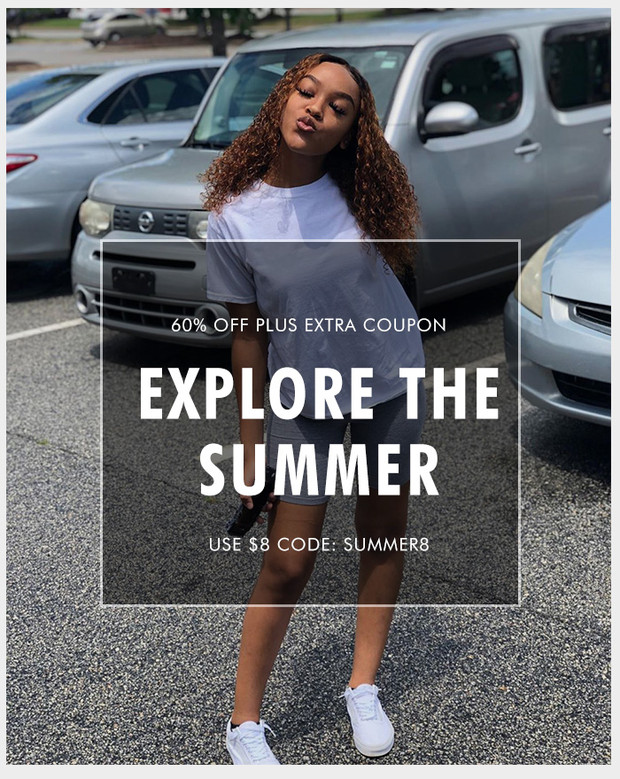
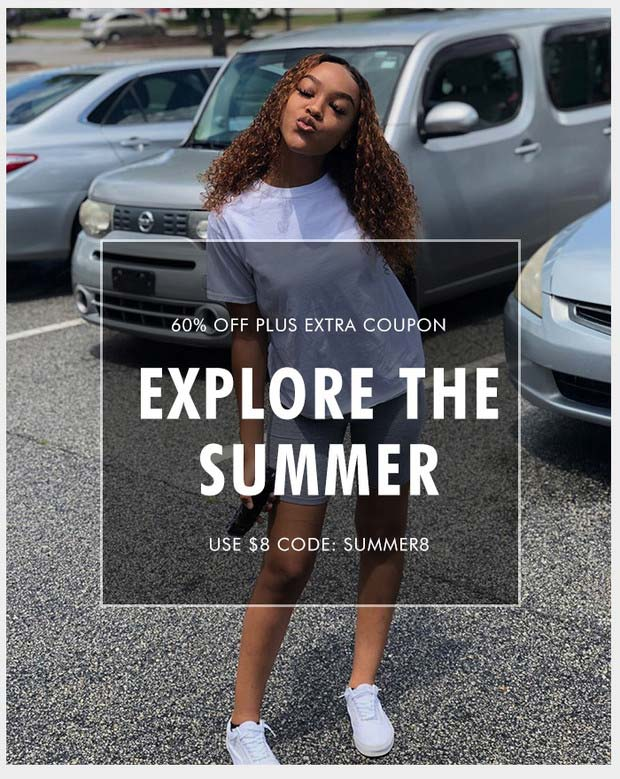
压缩图片 footnav更新删除代码 productController更新查询全部的方法

diff --git a/src/main/java/com/atguigu/controller/MlbackFootNavController.java b/src/main/java/com/atguigu/controller/MlbackFootNavController.java
@@ -235,16 +235,6 @@ public class MlbackFootNavController {
 		return "mfront/footNavPage";
 	}
 	
-//	@RequestMapping(value="/tomProductDetailPage",method=RequestMethod.GET)
-//	public String tomProductDetailPage(HttpServletResponse rep,HttpServletRequest res,@RequestParam(value = "productId") Integer productId) throws Exception{
-//		//接收传递进来的参数
-//		Integer productIdReq = productId;
-//		//放回响应域中
-//		res.setAttribute("productId", productIdReq);
-//		//返回视图
-//		return "mfront/productDetails";
-//	}
-	
 	/**
 	 * 9.0	UseNow	0505
 	 * 前台查看list		查看foot全部的接口类目的详情细节

diff --git a/src/main/java/com/atguigu/controller/MlbackProductController.java b/src/main/java/com/atguigu/controller/MlbackProductController.java
@@ -485,8 +485,10 @@ public class MlbackProductController {
 	 			proIdInt = Integer.parseInt(proIdStr);
 	 		 	mlbackProductReq.setProductId(proIdInt);
 	 		 	mlbackProductList = mlbackProductService.selectMlbackProduct(mlbackProductReq);
-	 		 	mlbackProductResOne = mlbackProductList.get(0);
-	 		 	mlbackProductResList.add(mlbackProductResOne);
+	 		 	if(mlbackProductList.size()>0){
+	 		 		mlbackProductResOne = mlbackProductList.get(0);
+	 		 		mlbackProductResList.add(mlbackProductResOne);
+	 		 	}
 	 		}
 	 	}
 		return Msg.success().add("resMsg", "查看该母category下的全部产品")
